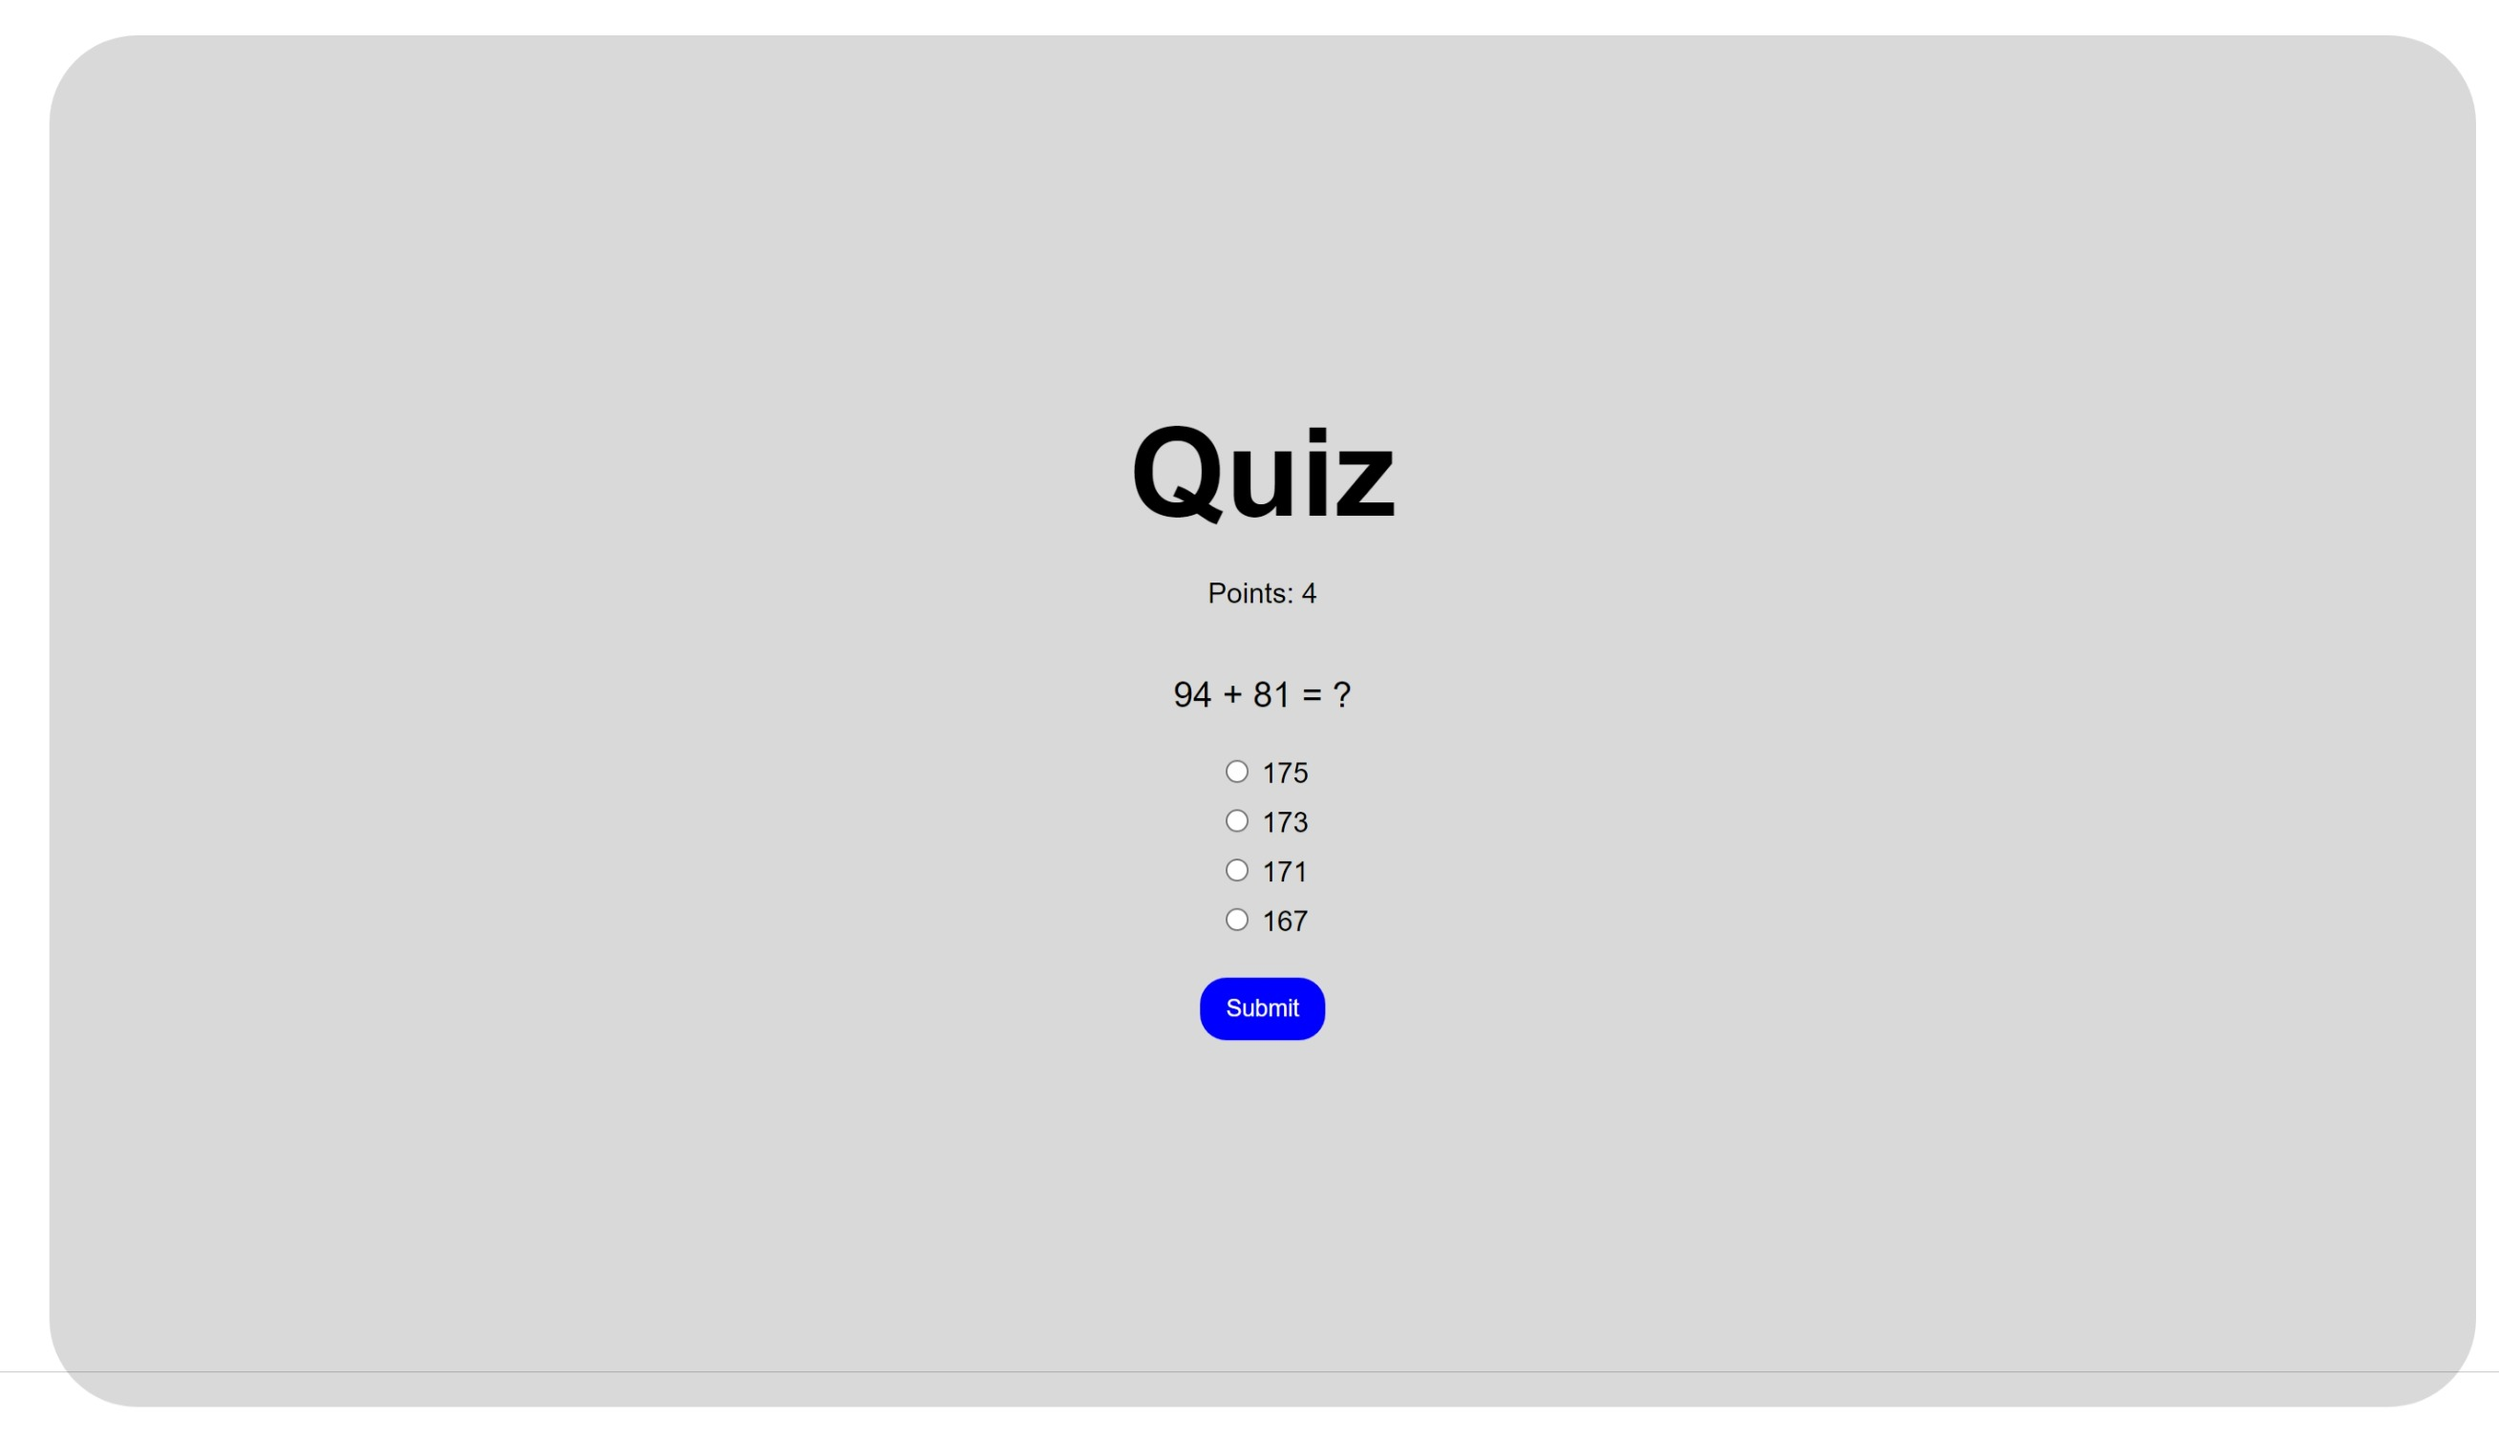
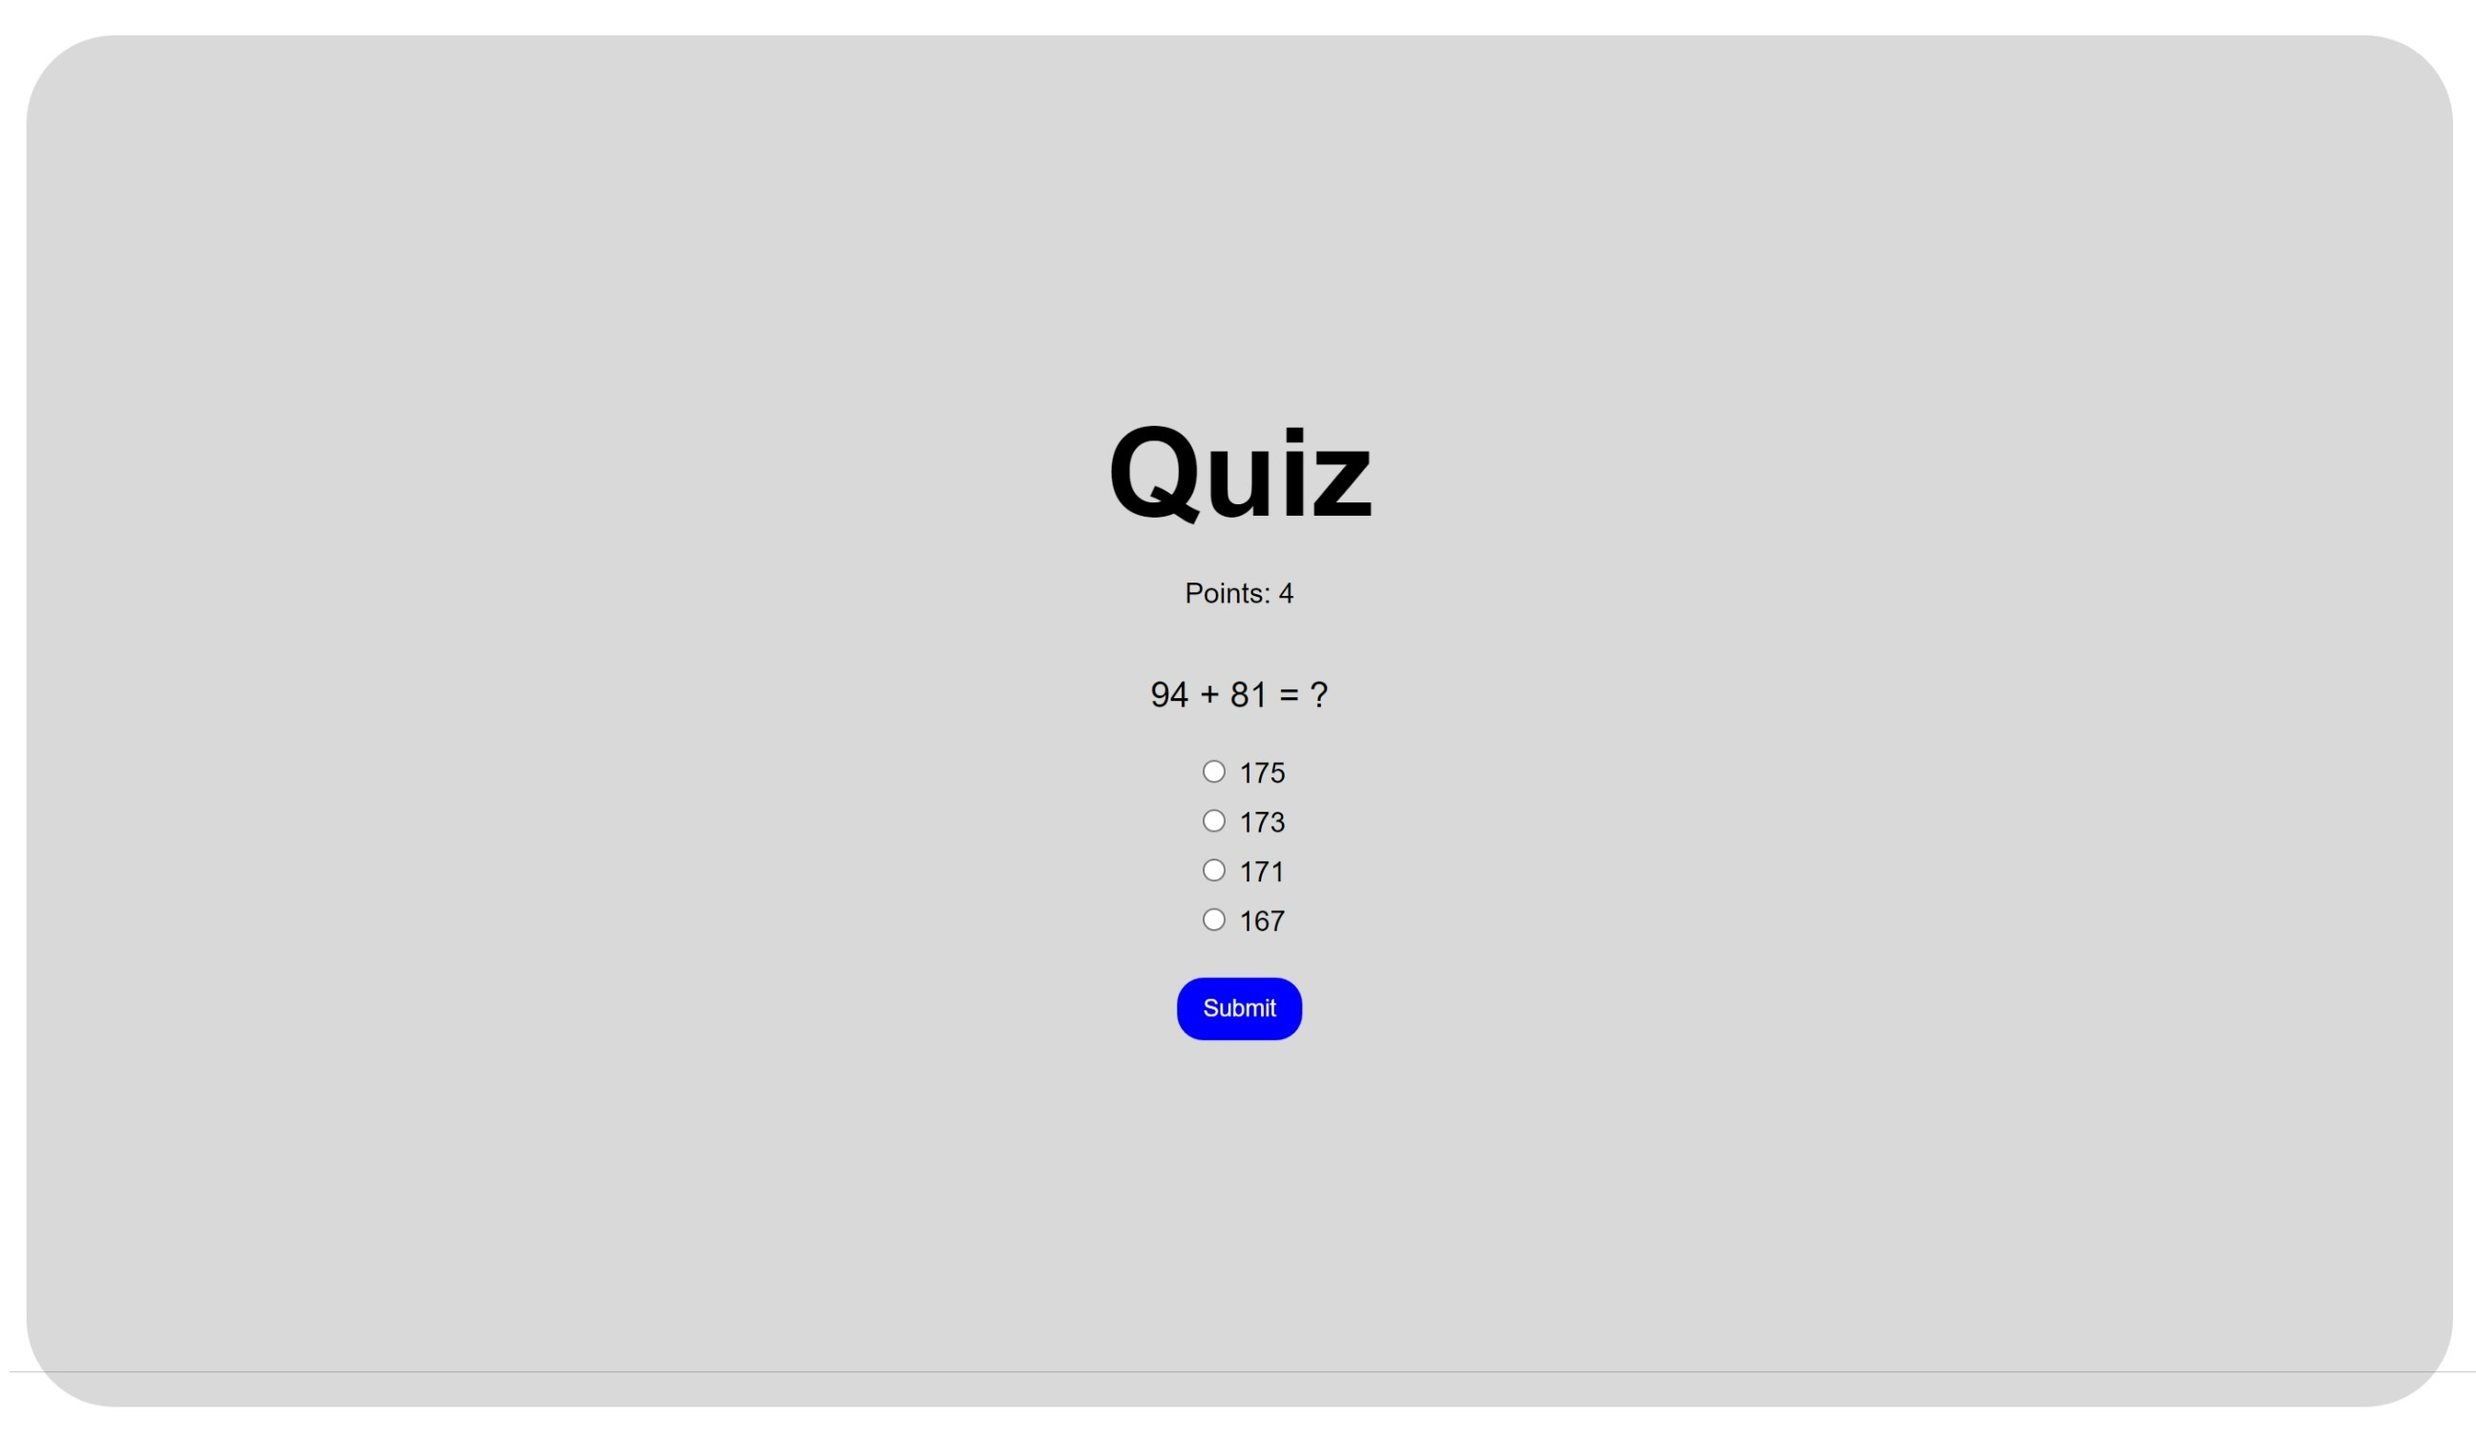
Centering Project Thumbnail

diff --git a/style.css b/style.css
@@ -97,7 +97,9 @@ header{
     width: fit-content;
     aspect-ratio: 16/9;
     object-fit: cover;
-    object-position: 0 0;
+    display: flex;
+    justify-content: center;
+    align-items: center;
     border-radius: 30px;
     border: 10px solid #153448;
 }
